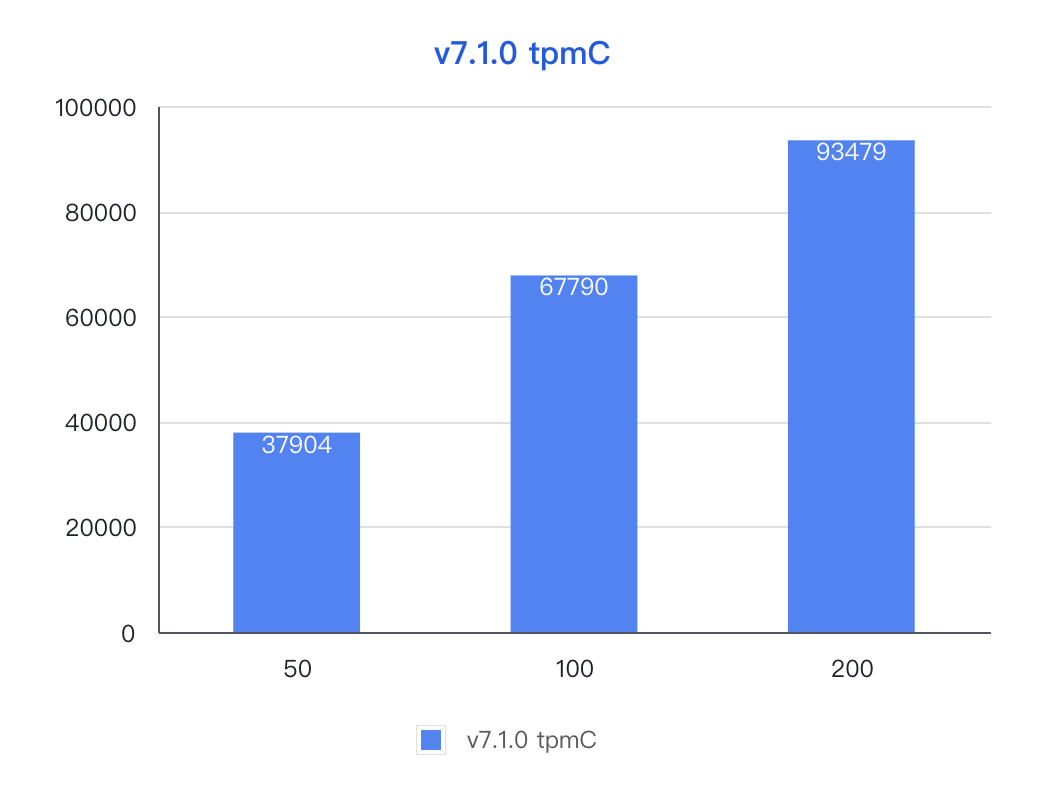
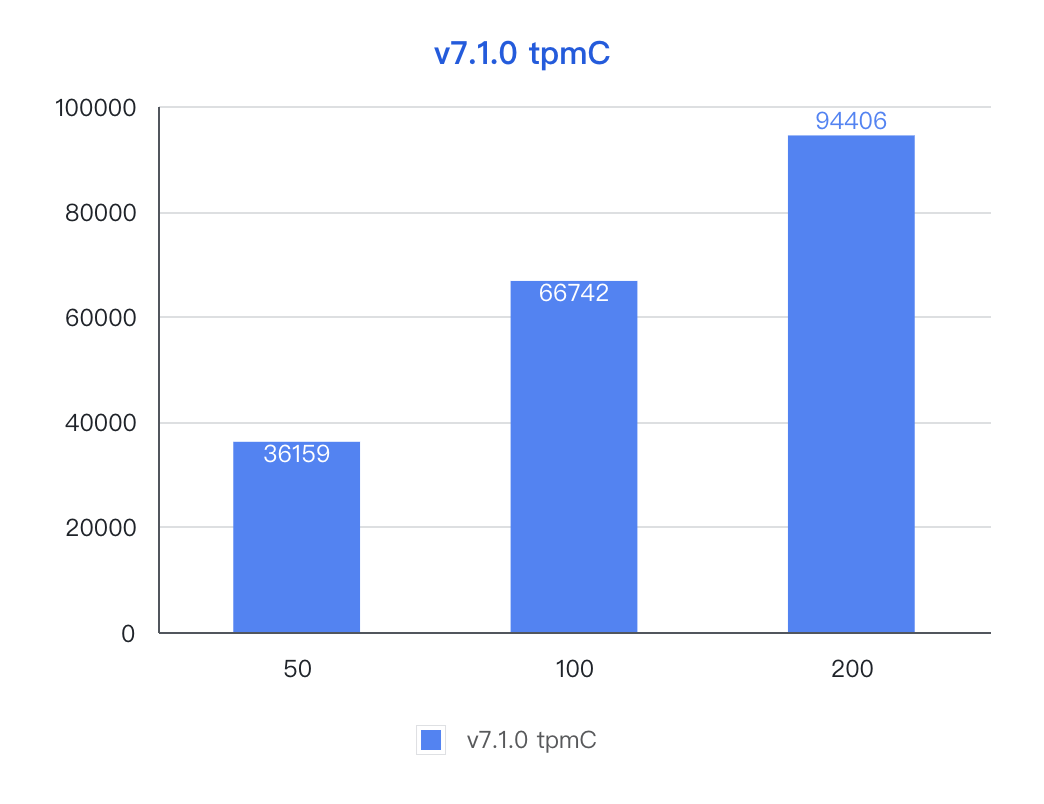
/tidb-cloud update tpcc rest result

Changed region(s): [[0.7663, 0.1244, 0.8889, 0.2177], [0.2146, 0.5286, 0.3372, 0.5908], [0.4904, 0.342, 0.613, 0.3731]]

diff --git a/tidb-cloud/v7.1.0-performance-benchmarking-with-tpcc.md b/tidb-cloud/v7.1.0-performance-benchmarking-with-tpcc.md
@@ -12,12 +12,11 @@ This test aims at showing the TPC-C performance of TiDB v7.1.0 in the Online Tra
 
 ### Hardware configuration
 
-| Service type | EC2 type | Instance count |
-|:----------|:----------|:----------|
-| PD        | 4C8G-20G |     3     |
-| TiKV      |16C64G-1000G|     3     |
-| TiDB      | 16C32G|     2     |
-| TPC-C  | 8c16g|     1     |
+| Nodes | vCPU + RAM |Storage (GiB) | Instance Count|
+|:----------|:----------| :----------| :---------- | 
+| TiKV      |16 vCPU, 64 GiB|     1000     |3|
+| TiDB      |16 vCPU, 32 GiB|     -     |2|
+| TPC-C  |8 vCPU, 16 GiB|      50    |1|
 
 ### Software version
 
@@ -29,12 +28,7 @@ This test aims at showing the TPC-C performance of TiDB v7.1.0 in the Online Tra
 
 ### Parameter configuration
 
-#### TiKV parameter configuration
-
-```yaml
-[raft-engine]
-prefill-for-recycle = true
-```
+The TPC-C test is conducted with default parameters.
 
 ### Prepare test data and run tpcc
 
@@ -79,8 +73,8 @@ The TPC-C performance of v7.1.0 is
 
 | Threads |  v7.1.0 tpmC |
 |:----------|:----------|
-|50|37904|
-|100|67790|
-|200|93479|
+|50|36159|
+|100|66742|
+|200|94406|
 
 ![TPC-C](/media/tidb-cloud/v7.1.0-tpmC.png)
